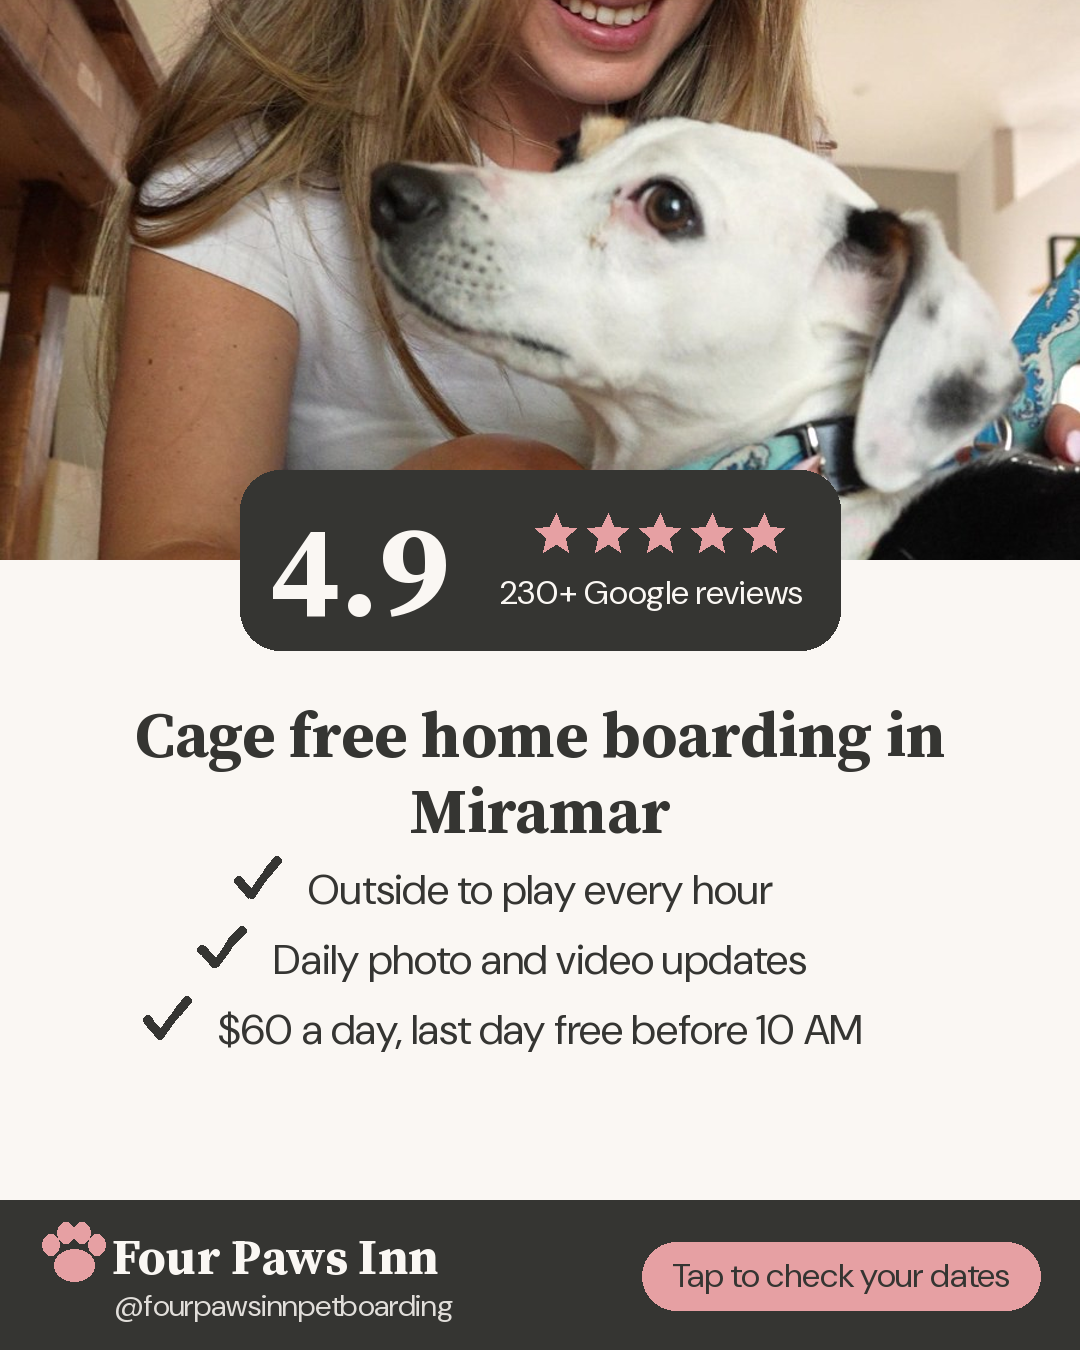
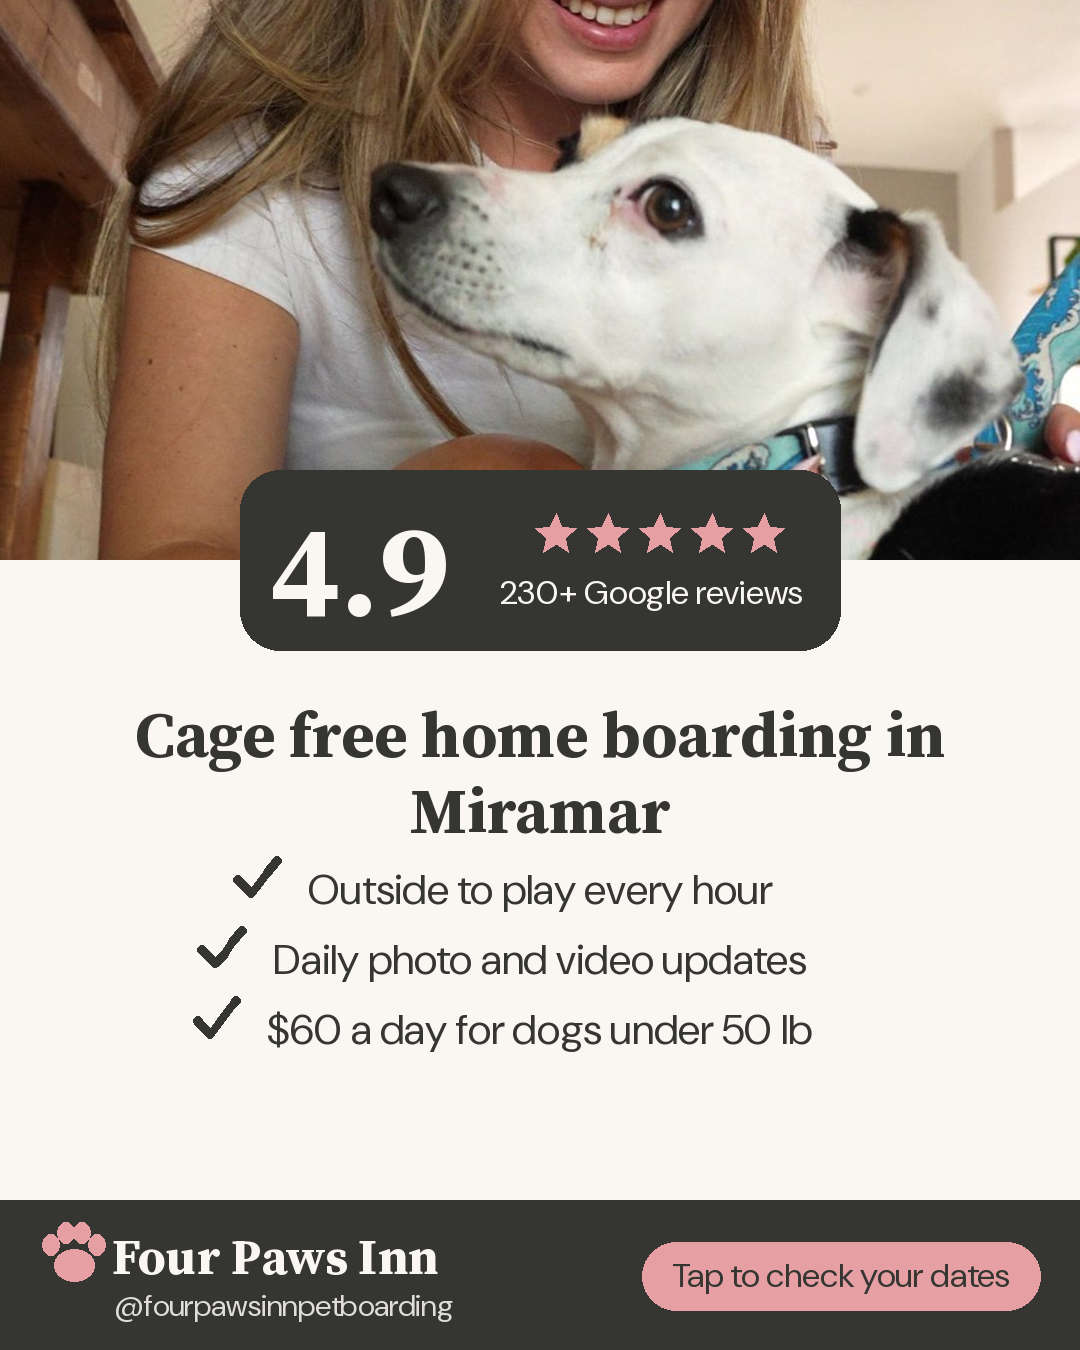
No discounts ever, first overnight not required: facts, ads, AD29 image
Claude-Session: https://claude.ai/code/session_01CuiBP4cscBkzuvo8JUyMNz

Changed region(s): [[0.1222, 0.7467, 0.7944, 0.7778]]

diff --git a/scripts/static-ads/render2.py b/scripts/static-ads/render2.py
@@ -341,7 +341,7 @@ def ad29():
     stars(d, W / 2 + 120, 535, 22, gap=52)
     d.text((W / 2 - 40, 570), "230+ Google reviews", font=sans(34, 600), fill=CREAM)
     y = center(d, 690, "Cage free home boarding in Miramar", serif(64), lh=76)
-    for t in ["Outside to play every hour", "Daily photo and video updates", "$60 a day, last day free before 10 AM"]:
+    for t in ["Outside to play every hour", "Daily photo and video updates", "$60 a day for dogs under 50 lb"]:
         tw = d.textlength(t, font=sans(42, 500))
         R.check(d, (W - tw) / 2 - 70, y + 24, 0.8, CHAR)
         d.text(((W - tw) / 2, y + 20), t, font=sans(42, 500), fill=CHAR)

diff --git a/fourpawsinn/business-facts.md b/fourpawsinn/business-facts.md
@@ -128,7 +128,16 @@ Business content goes to the Four Paws Inn workspace. Personal-brand content goe
 - Supporting generated material may be abstract, graphic, typographic, or motion-based.
 - Append this clause to every Four Paws Inn Higgsfield generation prompt: `no dogs, no animals, no people, no pet facility or yard imagery`.
 
-## First overnight stay (REQUIRED, Alex, Oct 12, 2026)
+## No discounts, ever (Alex, Oct 17, 2026)
+- "We are a premium luxury brand. Never ever a free night, a discount or any discount related offer." No free nights, no free days, no percent off, no dollar off, no trial deals in any ad, post, page, email, SMS or script.
+- "Last day free if picked up before 10 AM" is removed from all marketing. Do not use it in new copy. Ask Alex before quoting it to a client.
+- Second dog rate and creator codes ($25 off) are waiting on Alex's decision. Do not use them in new copy until he decides.
+- Replacement line when a closer is needed: "Want to see the home first? Meet and greets are on Tuesdays, 9 AM to 7 PM."
+
+## First overnight stay: NOT required (Alex, Oct 17, 2026, replaces Oct 12)
+Alex: "I do NOT want a mandatory paid overnight for new dogs." Never say a new dog must do an overnight first. The section below is retired history.
+
+## RETIRED Oct 17: First overnight stay (was REQUIRED, Alex, Oct 12, 2026)
 - Every new dog does one paid overnight stay with us first. Required, not optional.
 - Main target: leads without travel dates. The overnight is how we close them now, recover the ad cost, and make them a 2 time client.
 - Also required before a first holiday stay (Thanksgiving, Christmas, New Year) or a first long stay, even when they already have dates.

diff --git a/scripts/static-ads/concepts.md b/scripts/static-ads/concepts.md
@@ -146,3 +146,11 @@ Review Oct 24 (day 7): judge by cost per booked stay, then CPL. Pause any ad ove
 Alex: "I do NOT want a mandatory paid overnight for new dogs." Removed "Every new dog starts with one paid overnight so the house feels familiar." from all 9 launched ads. Nothing put in its place. All 9 PAUSED, ad text edited in place (same ad IDs, no duplicates), waiting for Alex's OK to turn back on. Budget, targeting and other ads untouched. Images contain no overnight wording.
 New creatives: AD14 4730492243863158, AD15 1622411866026750, AD18 1086703484152825, AD29 2216369892263102, AD21 1644912667081513, AD22 1137980245797330, AD09 1809544196835141, AD31 2008503049835424, AD32 2030307790967150.
 The qualifying formula is now: hook, who it is for, price up front, "Tap to check your dates. Amanda will text you back."
+
+## Oct 17 2026, second correction (Alex): no discounts, no free days, 3 copy angles
+
+Removed every free or discount line. AD29 image re-rendered without "last day free" (new image uploaded). Ads stay PAUSED until Codex finishes the GHL cleanup row and Alex approves.
+Copy test, 3 sets of 3 (same images, different body):
+- Set 1 TRUST (AD14, AD18, AD31): 230+ Google reviews, real home, cage free, outside every hour, photos and videos daily, price.
+- Set 2 PREMIUM CARE (AD15, AD22, AD32): no kennel run, our home, real beds, every stay planned around your dog's energy and routine, price.
+- Set 3 NOT THE CHEAPEST (AD29, AD21, AD09): "We are not the cheapest boarding in Miramar. We are the place families come back to." Price, "If that fits your dog, tap to check your dates."
